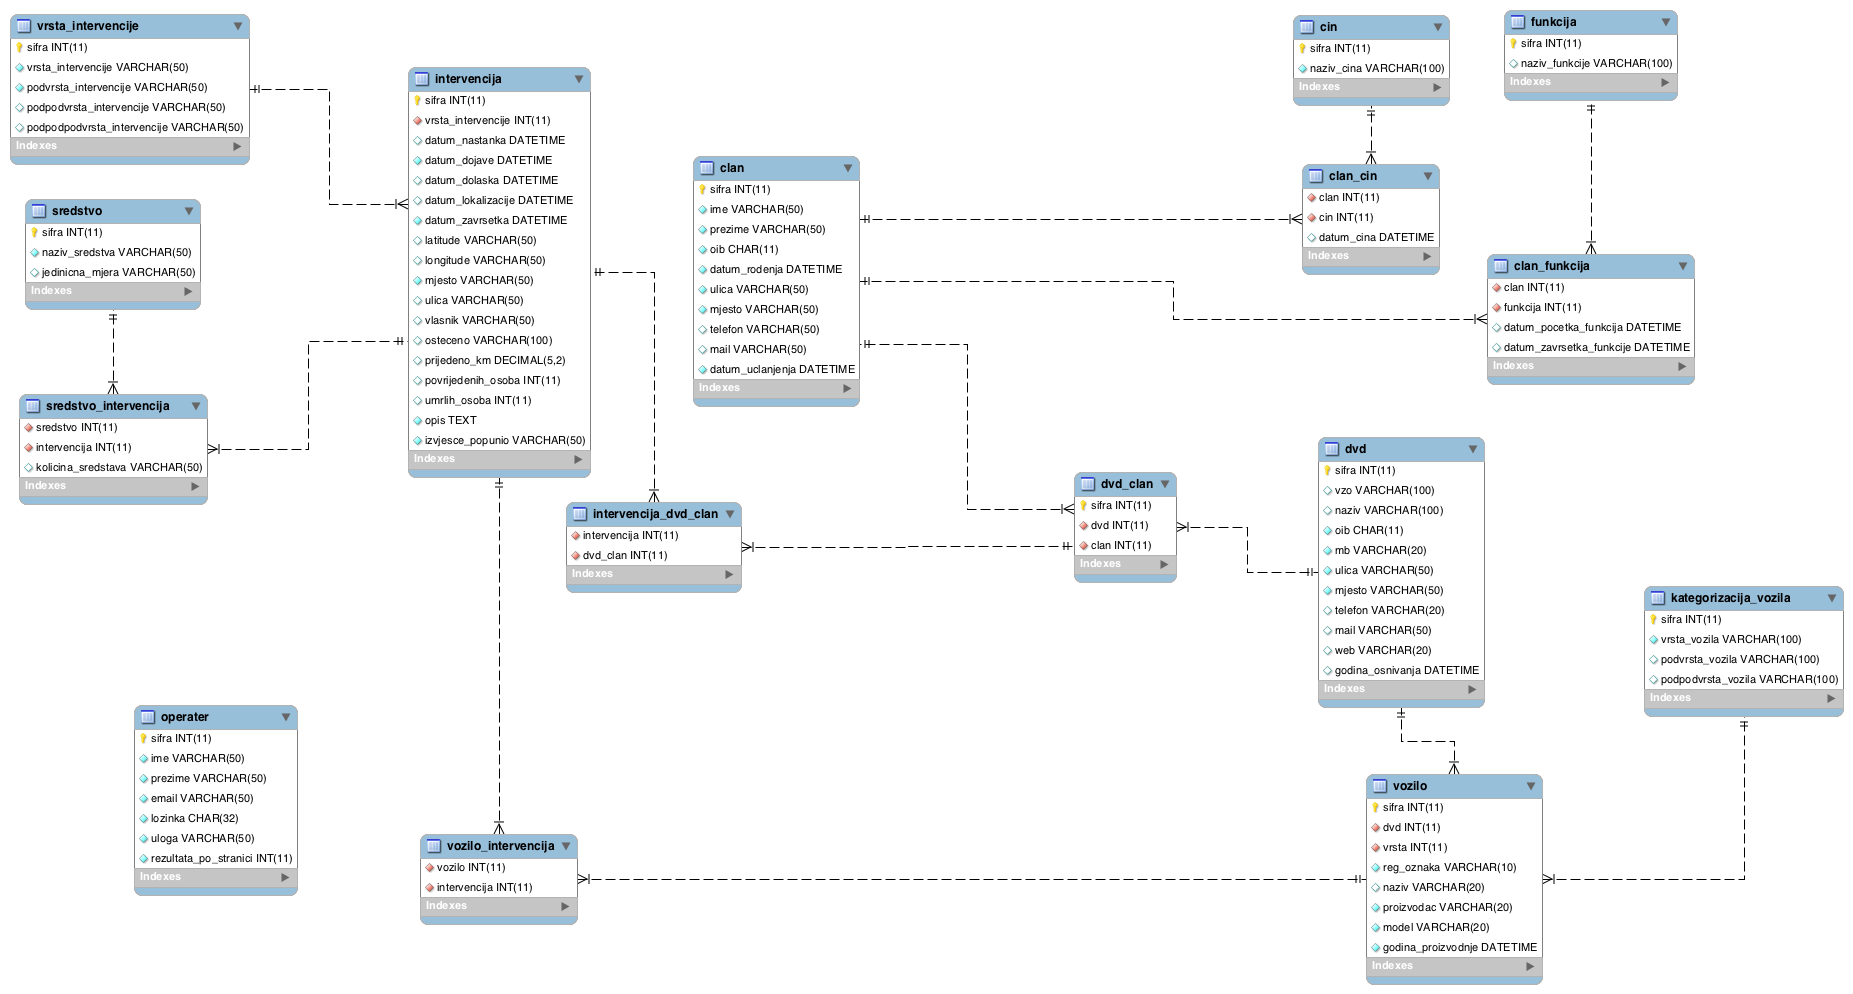
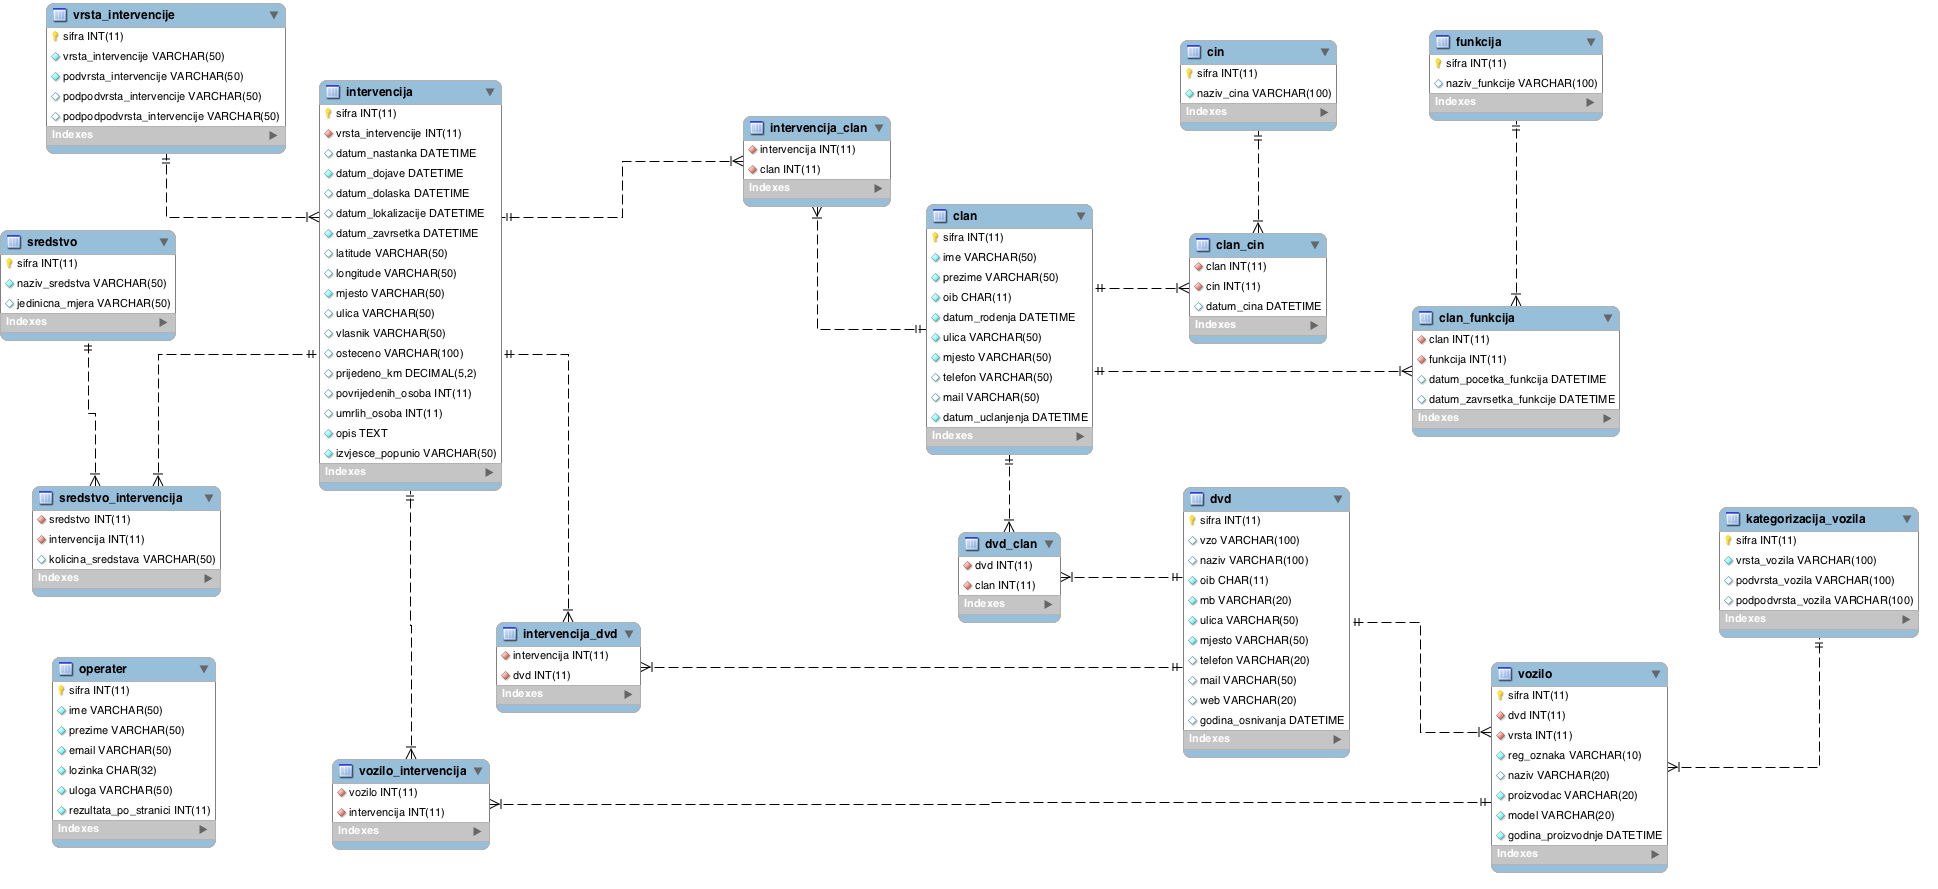
Add files via upload

diff --git a/css/app.css b/css/app.css
@@ -50,7 +50,7 @@ table thead th{
     background: #e6e6e6;
 }
 
-@media screen and (max-width: 650px) {
+@media screen and (max-width: 700px) {
   table thead {
     border: none;
     clip: rect(0 0 0 0);

diff --git a/dokumentacija/dddinsertInDB.php b/dokumentacija/dddinsertInDB.php
@@ -2,7 +2,7 @@
 provjeraLogin();
 $veza->beginTransaction();
 for($i=0; $i<4;$i++){
-	for($j=0; $j<100; $j++){
+	for($j=0; $j<50; $j++){
 	$izraz = $veza->query("insert into intervencija (vrsta_intervencije, datum_dojave, datum_zavrsetka, mjesto, opis, izvjesce_popunio) 
 							values($i+1, '2017-01-01 10:10:10','2017-01-01 11:11:11','Testiranje','Testiranje','Đuro Šarićž')");
 	}
@@ -96,42 +96,28 @@ echo "GOTOV INSERT DVD";
 
 <?php  
 
-/*for($i=0; $i<10;$i++){
+for($i=0; $i<10;$i++){
 	for($j=((($i+1)*15)-15); $j<(($i+1)*15); $j++){
 	$izraz = $veza->query("insert into dvd_clan (dvd, clan) 
 							values($i+1, $j+1)");
 	}
 }
 echo "GOTOVO INSERT DVD_CLAN";
-*/
+
 ?>
 
 <hr />
 
 <?php  
-/*
-for($i=0; $i<10;$i++){
-	for($j=((($i+1)*5)-5); $j<(($i+1)*5); $j++){
-	$izraz = $veza->query("insert into intervencija_dvd (intervencija, dvd) 
-							values($i+1, $j+1)");
-	}
-}
-echo "GOTOVO INSERT INTERVENCIJA_DVD";
-*/
-?>
 
-<hr />
-
-<?php  
-/*
 for($i=0; $i<30;$i++){
 	for($j=((($i+1)*5)-5); $j<(($i+1)*5); $j++){
-	$izraz = $veza->query("insert into intervencija_clan (intervencija, clan) 
+	$izraz = $veza->query("insert into intervencija_dvd_clan (intervencija, dvd_clan) 
 							values($i+1, $j+1)");
 	}
 }
-echo "GOTOVO INSERT INTERVENCIJA_CLAN";
-*/
+echo "GOTOVO INSERT INTERVENCIJA_DVD_CLAN";
+
 ?>
 
 <hr />
@@ -141,7 +127,7 @@ echo "GOTOVO INSERT INTERVENCIJA_CLAN";
 for($i=0; $i<10;$i++){
 	for($j=0; $j<4; $j++){
 	$izraz = $veza->query("insert into vozilo (dvd, vrsta, reg_oznaka, proizvodac, model, godina_proizvodnje) 
-							values($i+1, $j+1, 'OS-$i-AB','MAN', 'MAN', '2000-01-01')");
+							values($i+1, $j+1, 'OS-123-AB','MAN', 'MAN', '2000-01-01')");
 	}
 }
 echo "GOTOVO INSERT VOZILA";
@@ -151,7 +137,7 @@ echo "GOTOVO INSERT VOZILA";
 <hr />
 
 <?php  
-/*
+
 for($i=0; $i<40;$i++){
 	for($j=((($i+1)*4)-4); $j<(($i+1)*4); $j++){
 	$izraz = $veza->query("insert into vozilo_intervencija (vozilo, intervencija) 
@@ -159,7 +145,7 @@ for($i=0; $i<40;$i++){
 	}
 }
 echo "GOTOVO INSERT VOZILO_INTERVENCIJA";
-*/
+
 ?>
 
 <?php  

diff --git a/predlosci/paginator.php b/predlosci/paginator.php
@@ -1,7 +1,13 @@
 <?php if($ukupnoStranica>1): ?>
 	<ul class="pagination text-center" role="navigation" aria-label="Pagination">
+		<?php if($ukupnoStranica>5): ?>
+			<li class="pagination-previous"><a href="?stranica=1&uvjet=<?php echo $uvjet; ?>" aria-label="Prva stranica">Prva stranica</a></li>
+		<?php endif; ?>
 		<li class="pagination-previous"><a href="?stranica=<?php echo $stranica-1; ?>&uvjet=<?php echo $uvjet; ?>" aria-label="Prethodna stranica">Prethodna</a></li>
 		<li class="current"> <?php echo $stranica . " / " . $ukupnoStranica; ?></li> 
 		<li class="pagination-next"><a href="?stranica=<?php echo $stranica+1; ?>&uvjet=<?php echo $uvjet; ?>" aria-label="Sljedeća stranica">Sljedeća</a></li>
+		<?php if($ukupnoStranica>5): ?>
+			<li class="pagination-next"><a href="?stranica=<?php echo $ukupnoStranica; ?>&uvjet=<?php echo $uvjet; ?>" aria-label="Zadnja stranica">Zadnja stranica</a></li>
+		<?php endif; ?>
 	</ul>
 <?php endif; ?>

diff --git a/funkcije.php b/funkcije.php
@@ -13,4 +13,21 @@ function provjeraUloga($uloga){
 	}
 }
 
+function dohvatiOIB(){
+	/* Use internal libxml errors -- turn on in production, off for debugging */
+	libxml_use_internal_errors(true);
+	/* Createa a new DomDocument object */
+	$dom = new DomDocument;
+	/* Load the HTML */
+	$dom->loadHTMLFile("http://oib.itcentrala.com/oib-generator/");
+	/* Create a new XPath object */
+	$xpath = new DomXPath($dom);
+	/* Query all <td> nodes containing specified class name */
+	$nodes = $xpath->query("/html/body/div[1]/div[1]/text()");
+	/* Traverse the DOMNodeList object to output each DomNode's nodeValue */
+	foreach ($nodes as $i => $node) {
+		return  $node->nodeValue;
+	}
+}
+
 ?>
